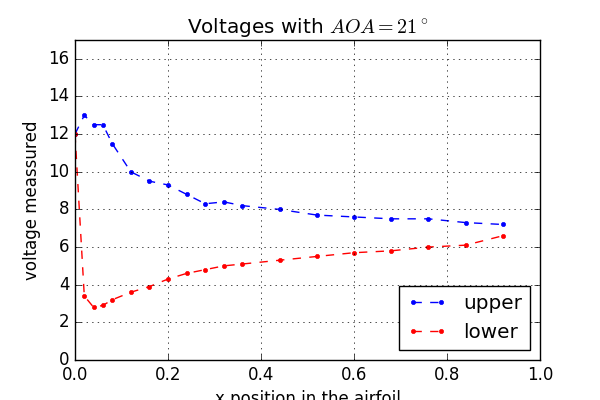
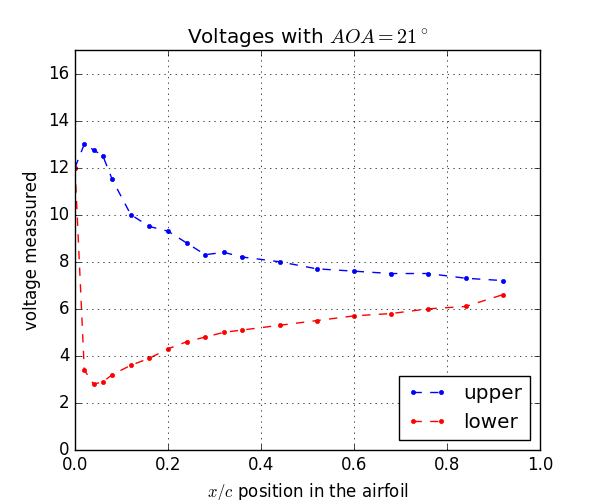
Neverending nightmare

diff --git a/tunel.py b/tunel.py
@@ -17,7 +17,7 @@ def plot_voltaje(x, yu, yl, aoa):
 
 class VoltagePlot(object):
     def __init__(self):
-        self.fig, self.ax = plt.subplots(figsize=(6, 4), dpi=100)
+        self.fig, self.ax = plt.subplots(figsize=(6, 5), dpi=100)
 
     def plot(self, x, yu, yl, aoa):
         lines = []
@@ -26,7 +26,7 @@ class VoltagePlot(object):
         self.ax.set_ylim(0, 17)
 
         self.ax.set_title('Voltages with $AOA = {0}^\circ$'.format(aoa))
-        self.ax.set_xlabel('x position in the airfoil')
+        self.ax.set_xlabel(r'$x/c$ position in the airfoil')
         self.ax.set_ylabel('voltage meassured')
 
         self.ax.grid()
@@ -52,7 +52,7 @@ def plot_cp(x, cpu, cpl, aoa):
 
 class CpPlot(object):
     def __init__(self):
-        self.fig = plt.figure(figsize=(6, 4), dpi=100)
+        self.fig = plt.figure(figsize=(6, 7), dpi=100)
 
         c = 0.05
         self.left, self.width = 0.15 , 0.8
@@ -64,6 +64,8 @@ class CpPlot(object):
         self.ax2 = self.fig.add_axes(self.rect2, sharex=self.ax1, **axprops)
 
     def plot(self, x, cpu, cpl, aoa):
+        lines = []
+
         # load geometry from data file
         # data generated using naca.py
         # https://github.com/dgorissen/naca
@@ -74,8 +76,9 @@ class CpPlot(object):
         self.ax1.set_xlim(0, 1)
         self.ax1.set_ylim(1, -3)
 
-        self.ax1.set_title("$C_{p}$ with $AOA = %s^\circ$" % (aoa))
+        self.ax1.set_title("$C_{p}$ at $AOA = %s^\circ$" % (aoa))
         self.ax1.set_ylabel('$C_{p}$')
+        self.ax1.set_xlabel(r'$x/c$ position in the airfoil')
         self.ax1.set_xticks(np.arange(0, 11, 2)/10)
         self.ax2.set_xticklabels(np.arange(0, 11, 2)/10)
 
@@ -92,15 +95,71 @@ class CpPlot(object):
         self.ax2.get_xaxis().set_visible(False)
         self.ax2.get_yaxis().set_visible(False)
 
-        self.ax1.plot(x, cpu, 'b.--', label='upper')
-        self.ax1.plot(x, cpl, 'r.--', label='lower')
+        l, = self.ax1.plot(x, cpu, 'bx--', label='upper')
+        lines.append(l)
+        l, = self.ax1.plot(x, cpl, 'rx--', label='lower')
+        lines.append(l)
 
+        l, = self.ax2.plot((xg[300::] + 0.01) * 0.99, yg[300::] * 0 - 1, color='k', linestyle='--', linewidth=1.5)
+        lines.append(l)
         # index 300 is (0.0, 0.0)
-        self.ax2.plot(xg[:301:], yg[:301:]-1, color='b', linestyle='-', linewidth=1)
-        self.ax2.plot(xg[300::], yg[300::]-1, color='r', linestyle='-', linewidth=1)
+        l, = self.ax2.plot((xg[:301:] + 0.01) * 0.99, yg[:301:] - 1, color='b', linestyle='-', linewidth=1.5)
+        lines.append(l)
+        l, = self.ax2.plot((xg[300::] + 0.01) * 0.99, yg[300::] - 1, color='r', linestyle='-', linewidth=1.5)
+        lines.append(l)
 
         self.ax1.legend(loc='upper right')
 
+        return lines
+
+def calculate_cl(x, cpu, cpl, aoa):
+    dx = x[1::] - x[0:-1:]
+
+    dx = np.vstack((dx, dx))
+
+    cp = np.vstack((cpu, cpl))
+
+    p = (cp[:, 1::] + cp[:, 0:-1:]) / 2
+
+    s = np.sum(p * dx, axis=1)
+
+    # not dividing by c because it's x/c realy
+    # doing cl = cn * cos(aoa)
+    cl = (s[1] - s[0]) * np.cos(aoa * np.pi / 180)
+
+    return cl
+
+def plot_cla(aoa, cl):
+    p = ClaPlot()
+    return p.plot(aoa, cl)
+
+class ClaPlot(object):
+    def __init__(self):
+        self.fig, self.ax = plt.subplots(figsize=(6, 5), dpi=100)
+
+    def plot(self, aoa, cl):
+        lines = []
+
+        f = os.path.join(os.path.dirname(__file__), 'data/naca008-atools.txt')
+        data_atools = np.loadtxt(f, dtype=float).T
+
+        self.ax.set_ylim(-0.5, 1.5)
+        self.ax.set_xlim(-5, 22)
+
+        self.ax.set_title(r'$c_{l}-\alpha$')
+        self.ax.set_xlabel('Angle of attack')
+        self.ax.set_ylabel(r'$c_{l}$')
+
+        self.ax.grid()
+
+        l, = self.ax.plot(aoa, cl, 'bx--', label='experimental $c_{l}$')
+        lines.append(l)
+        l, = self.ax.plot(data_atools[0], data_atools[1], 'k--', label='numerical $c_{l}$')
+        lines.append(l)
+
+        self.ax.legend(loc='lower right')
+
+        return lines
 
 if __name__ == "__main__":
     # lab data
@@ -148,12 +207,12 @@ if __name__ == "__main__":
     cpu, cpl = calculate_cp(tunel_data[l.index(i) + 1],
                 tunel_data[l.index(i) + 5], inf_data[l.index(i) + 5])
 
-    fig, ax = plt.subplots(figsize=(6, 4), dpi=100)
+    fig, ax = plt.subplots(figsize=(6, 5), dpi=100)
     ax.set_xlim(0.0, 1.0)
     ax.set_ylim(-3, 1.3)
 
     ax.set_title("Theorical $C_{p}$ with $AOA = 0^\circ$ vs. data")
-    ax.set_xlabel('x position in the airfoil')
+    ax.set_xlabel(r'$x/c$ position in the airfoil')
     ax.set_ylabel('$C_{p}$')
 
     ax.invert_yaxis()
@@ -175,12 +234,12 @@ if __name__ == "__main__":
     f = os.path.join(os.path.dirname(__file__), 'data/naca0018at7.cp')
     data_lol = np.loadtxt(f, delimiter=',', dtype=float).T
 
-    fig, ax = plt.subplots(figsize=(6, 4), dpi=100)
+    fig, ax = plt.subplots(figsize=(6, 5), dpi=100)
     ax.set_xlim(0.0, 1.0)
     ax.set_ylim(-3, 1.3)
 
     ax.set_title("Theorical $C_{p}$ with $AOA = 7^\circ$ vs. data")
-    ax.set_xlabel('x position in the airfoil')
+    ax.set_xlabel(r'$x/c$ position in the airfoil')
     ax.set_ylabel('$C_{p}$')
 
     ax.invert_yaxis()
@@ -191,7 +250,7 @@ if __name__ == "__main__":
     ax.plot(tunel_data[0], cpl, 'r.--', label='lower')
 
     l = [0, 7, 14, 21]
-    i = 0
+    i = 3
 
     ii = int(data_lol.shape[1] / 2)
     ax.plot(data_lol[0, ii::], data_lol[1, ii:0:-1], 'k--', label='theo')
@@ -200,9 +259,22 @@ if __name__ == "__main__":
     ax.legend(loc='upper right')
 
     plt.savefig(os.path.join(os.path.dirname(__file__),
-                'plots/ccompared-cp-at-aoa{0}'.format(i) + '.png'))
+                'plots/compared-cp-at-aoa{0}'.format(21) + '.png'))
 
-    plt.show()
+    l = [0, 7, 14, 21]
+    cl_a = []
+
+    for i in l:
+        cpu, cpl = calculate_cp(tunel_data[l.index(i) + 1],
+                   tunel_data[l.index(i) + 5], inf_data[l.index(i) + 5])
+
+        cl_a.append(calculate_cl(tunel_data[0], cpu, cpl, i))
+
+    plot_cla(l, cl_a)
+    plt.savefig(os.path.join(os.path.dirname(__file__),
+                'plots/cl-alpha' + '.png'))
+
+    #plt.show()
 
 #else:
 #    plt.ion()
